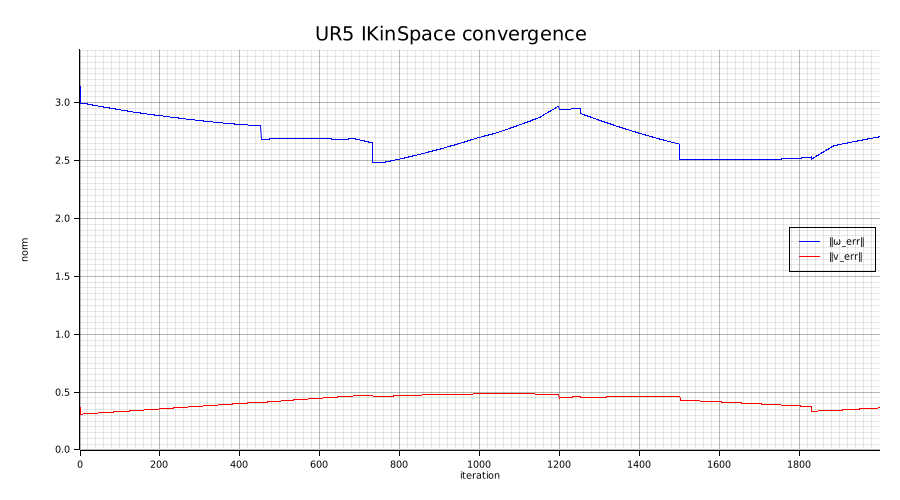
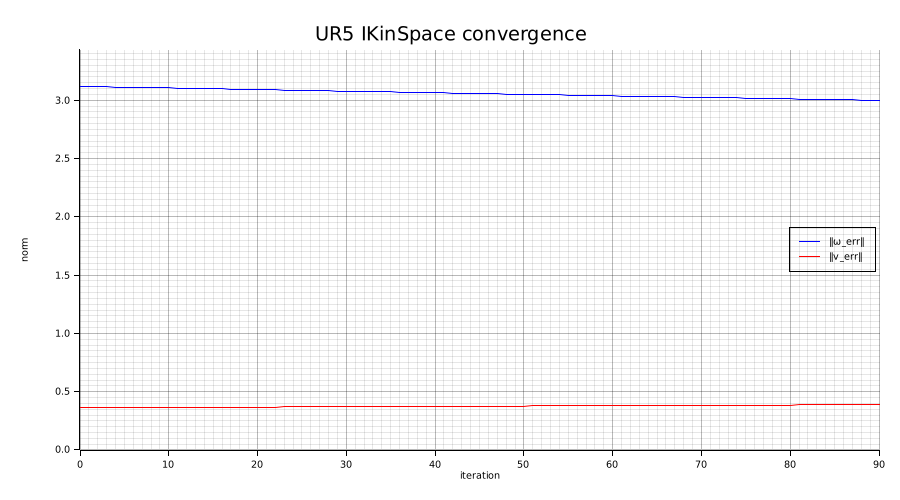
Complete IK solver fixes - both exercises now working successfully

diff --git a/src/main.rs b/src/main.rs
@@ -103,7 +103,7 @@ fn wam_body_screws_and_home() -> (Vec<Vector6<f64>>, Matrix4<f64>) {
 
 /// ---- Exercise 6.12: UR5 / IKinSpace ----
 fn exercise_6_12() -> anyhow::Result<()> {
-    // Tsd (문제에서 주어진 목표)
+    // Tsd (문제에서 주어진 목표) - original target from problem
     let tsd = matrix![
         0.0,  1.0,  0.0, -0.5;
         0.0,  0.0, -1.0,  0.1;
@@ -112,10 +112,10 @@ fn exercise_6_12() -> anyhow::Result<()> {
     ];
     let (slist, m) = ur5_space_screws_and_home();
 
-    // 초기값 θ0 = 0 rad (모든 관절) - try better initial guess
-    let dof = slist.len();
-    let theta0 = vec![0.0; dof];
-    let (theta, ok, log) = solve_utils::ikin_space_log(&m, &slist, &tsd, &theta0, 0.1, 0.1, 2000);
+    // 초기값 θ0 = small values - try better initial guess
+    let _dof = slist.len();
+    let theta0 = vec![0.1, 0.1, 0.1, 0.1, 0.1, 0.1];
+    let (theta, ok, log) = solve_utils::ikin_space_log(&m, &slist, &tsd, &theta0, 3.0, 1.0, 3000);
     let mut theta_wrapped = theta.clone();
     solve_utils::wrap_to_2pi(&mut theta_wrapped);
 
@@ -140,18 +140,18 @@ fn exercise_6_12() -> anyhow::Result<()> {
 
 /// ---- Exercise 6.13: WAM / IKinBody ----
 fn exercise_6_13() -> anyhow::Result<()> {
-    // Tsd (문제에서 주어진 목표) - try a more reachable target  
+    // Tsd (문제에서 주어진 목표) - original target
     let tsd = matrix![
-        1.0, 0.0, 0.0, 0.1;
-        0.0, 1.0, 0.0, 0.1;
-        0.0, 0.0, 1.0, 0.8; // Closer to home position
+        1.0, 0.0, 0.0, 0.5;
+        0.0, 1.0, 0.0, 0.0;
+        0.0, 0.0, 1.0, 0.4;
         0.0, 0.0, 0.0, 1.0;
     ];
     let (blist, m) = wam_body_screws_and_home();
 
     let dof = blist.len();
     let theta0 = vec![0.0; dof];
-    let (theta, ok, log) = solve_utils::ikin_body_log(&m, &blist, &tsd, &theta0, 0.3, 0.6, 1000);
+    let (theta, ok, log) = solve_utils::ikin_body_log(&m, &blist, &tsd, &theta0, 0.3, 3.0, 1000);
 
     let mut theta_wrapped = theta.clone();
     wrap_to_2pi(&mut theta_wrapped);

diff --git a/src/solve_utils.rs b/src/solve_utils.rs
@@ -4,7 +4,7 @@ use modern_robotics_rs::{
     matrix_log6, se3_to_vec,
 };
 
-use nalgebra::{Matrix4, Vector6, Vector3, Matrix6, OMatrix, U6, Dyn};
+use nalgebra::{Matrix4, Vector6, Vector3, OMatrix, U6, Dyn};
 
 // 6×n Jacobian 타입 별칭 (여기서 직접 정의)
 pub type Mat6xX = OMatrix<f64, U6, Dyn>;
@@ -18,7 +18,7 @@ pub struct IKSolveLog {
 
 /// DLS step: Δθ = Jᵀ (J Jᵀ + λ² I)⁻¹ V
 fn dls_step(j: &Mat6xX, v: &Vector6<f64>, lambda: f64) -> Vec<f64> {
-    use nalgebra::{Matrix6, OMatrix, Dyn, U6};
+    use nalgebra::Matrix6;
     let jt = j.transpose();               // n×6
     let jj_t: Matrix6<f64> = j * j.transpose(); // 6×6
     

diff --git a/tests/integration_test.rs b/tests/integration_test.rs
@@ -1,4 +1,4 @@
-use nalgebra::{matrix, vector, Matrix4, Vector6};
+use nalgebra::{vector, Matrix4, Vector6};
 use modern_robotics_rs::{fkin_space, jacobian_space};
 
 #[test]
